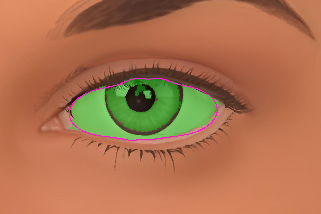
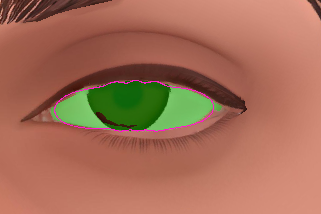
WarriorF2 made from the sheet, and brown eyes found (Moti: "we need a fixed pipeline for each part" -> the new face painted onto WarriorF's own head sheet, so skull and neck are the body's; "Seee what you can do with this head"). head_warrior_f2's Tripo source replaced by the sheet-made bust; its ne

diff --git a/ai_models/eyes.py b/ai_models/eyes.py
@@ -105,15 +105,17 @@ def opening(colour, seed):
 
 ON_BALL = 0.0004    # paint this near the fitted eyeball's surface lies on it (the lids stand off it)
 SHADED = 0.4        # the eye in the paint's shadow is less warm than this (skin ~0.5; the eye in light ~0.05)
+DARK = 0.22         # or darker than this (luminance): a brown iris is as warm as brown skin (WarriorF2 made from the sheet), but far darker
 
 
-def on_the_eyeball(mask, warmth, depth, gx, gz, centre, r):
-    """mask grown over what lies on the eyeball (centre, r: the sphere fitted to it) and is not as warm as skin,
-    joined to it: the eye where its paint is shaded, which a warmth alone takes for skin."""
+def on_the_eyeball(mask, warmth, depth, gx, gz, centre, r, dark=None, tolerance=ON_BALL):
+    """mask grown over what lies on the eyeball (centre, r: the sphere fitted to it) and is not as warm as skin (or is
+    dark, `dark`: a brown iris), joined to it: the eye where its paint is shaded or brown, which a warmth alone takes
+    for skin."""
     inside = r ** 2 - (gx - centre[0]) ** 2 - (gz - centre[2]) ** 2
     front = centre[1] - np.sqrt(np.maximum(inside, 0.0))
-    near = (inside > 0) & (np.abs(np.nan_to_num(depth, nan=1.0) - front) < ON_BALL) \
-        & (np.nan_to_num(warmth, nan=1.0) < SHADED)
+    near = (inside > 0) & (np.abs(np.nan_to_num(depth, nan=1.0) - front) < tolerance) \
+        & ((np.nan_to_num(warmth, nan=1.0) < SHADED) | (dark if dark is not None else False))
     grown = mask.copy()
     stack = [tuple(p) for p in np.argwhere(mask)]
     rows, cols = mask.shape
@@ -710,17 +712,38 @@ def give_eyes(head, image, title, maps, checks, nose, lid_rest=0.0):
     eye's front map with its outline drawn (eyes_map_<side>.png). Returns what was found and made."""
     import bmesh
     report, outlines = {}, {}
-    for side, iris in zip(("right", "left"), painted_irises(head, image, nose)):
+    irises = list(painted_irises(head, image, nose))
+
+    def find(side, iris, sphere=None):
+        """The eye at iris (the painted iris's place) found, cut round and put in the report; sphere: the eyeball to
+        start from instead of one fitted to the opening (the other eye's, mirrored, when this one's paint hid it)."""
         xs, zs, colour, depth = front_map(head, image, iris)
         seed = (int(np.argmin(np.abs(zs - iris[2]))), int(np.argmin(np.abs(xs - iris[0]))))
         mask, warmth, line = opening(colour, seed)
-        middle, radius = outline(mask, xs, zs)
         gx, gz = np.meshgrid(xs, zs)
-        surface = np.c_[gx[mask], depth[mask], gz[mask]]
-        centre, r = sphere_fit(surface[~np.isnan(surface).any(1)])
+        if sphere is not None:
+            # The other eye's outline mirrored across the face is this eye's opening too (a symmetric sheet gives symmetric
+            # eyes), joined to what the paint gave.
+            other_middle, other_radius = sphere[2]
+            rr = np.array([[radius_at(other_middle, other_radius, -x, z) for x in xs] for z in zs])
+            mask |= np.hypot(-gx - other_middle[0], gz - other_middle[1]) < rr
+        middle, radius = outline(mask, xs, zs)
+        # A sphere through the opening found; an opening that is only a sliver of white (WarriorF2's right eye, a brown
+        # iris on brown skin: 2.2 mm across of 22) gives a wrong one, so then through the disc round the seed, which
+        # lies on the eyeball Tripo sculpts under the paint.
+        on = mask if (gx[mask].max() - gx[mask].min()) > 0.012 else (np.hypot(gx - xs[seed[1]], gz - zs[seed[0]]) < 0.008)
+        surface = np.c_[gx[on], depth[on], gz[on]]
+        centre, r = sphere[:2] if sphere is not None else sphere_fit(surface[~np.isnan(surface).any(1)])
         # The eye the paint leaves in shadow (under the upper lid, a dark side of the iris): on the eyeball the paint
         # lies over, and not as warm as skin; joined to what was found.
-        mask = on_the_eyeball(mask, warmth, depth, gx, gz, centre, r)
+        dark = (np.nan_to_num(colour, nan=1.0) @ np.array([0.2126, 0.7152, 0.0722], dtype=np.float32)) < DARK
+        # Twice: a sphere fitted to a sliver of white (WarriorF2's right eye, 7.6 mm) grows over little; grown, it is
+        # fitted again to the whole eye and grows over the rest.
+        for _ in range(2):
+            # A sphere given is the other eye's mirrored, and a face is not quite symmetric: a looser fit the first time.
+            mask = on_the_eyeball(mask, warmth, depth, gx, gz, centre, r, dark, 0.002 if sphere is not None and _ == 0 else ON_BALL)
+            surface = np.c_[gx[mask], depth[mask], gz[mask]]
+            centre, r = sphere_fit(surface[~np.isnan(surface).any(1)])
         middle, radius = outline(mask, xs, zs)
         # The painted iris's colour: the eye's coloured middle round the seed, not the pupil, not the white.
         near_seed = np.hypot(gx - xs[seed[1]], gz - zs[seed[0]]) < 0.0045
@@ -746,6 +769,17 @@ def give_eyes(head, image, title, maps, checks, nose, lid_rest=0.0):
             if 0 <= j < picture.shape[0] and 0 <= i < picture.shape[1]:
                 picture[j, i] = (1.0, 0.1, 0.8)
         bpy.data.images.remove(save_map(picture, os.path.join(checks, f"eyes_map_{side}.png"), "sRGB"))
+
+    for side, iris in zip(("right", "left"), irises):
+        find(side, iris)
+    # An eye found far narrower than the other was hidden by its paint (a brown iris under a dark lid): found again
+    # from the other's eyeball mirrored across the face (the head is centred on x = 0), which it lies on.
+    for side, other in (("right", "left"), ("left", "right")):
+        if report[side]["width_mm"] < 0.6 * report[other]["width_mm"]:
+            ball = report[other]["eyeball"]
+            centre = np.array(ball["centre_m"]) * np.array([-1.0, 1.0, 1.0])
+            find(side, irises[0 if side == "right" else 1], (centre, ball["radius_mm"] / 1000, outlines[other]))
+            report[side]["found_from_the_other"] = True
 
     bm = bmesh.new()
     bm.from_mesh(head.data)

diff --git a/ai_models/head.py b/ai_models/head.py
@@ -21,7 +21,7 @@ from face import profile
 ROOT = os.path.join(HERE, NAME)
 OUT = os.path.join(ROOT, "build", "forge", TITLE)
 HEAD_HEIGHT = 0.232  # chin to crown, an adult man's
-EYES_OVER_HEIGHT = (0.245, 0.32)  # the eyes' middles apart over chin to crown, a face's (WarriorM 0.281, WarriorM2 0.297, WarriorF 0.284; WarriorF2 0.254, a tall narrow head whose landmarks_*.jpg are right)
+EYES_OVER_HEIGHT = (0.245, 0.33)  # the eyes' middles apart over chin to crown, a face's (WarriorM 0.281, WarriorM2 0.297, WarriorF 0.284; WarriorF2 0.254 as a tall narrow head and 0.320 made from the sheet, landmarks_*.jpg right both times)
 MAP_SIZE = 4096
 SKIN_SHINE = 0.6  # Tripo's roughness read as URP smoothness looks wet (oily lips and brow): skin shines this much of it
 
